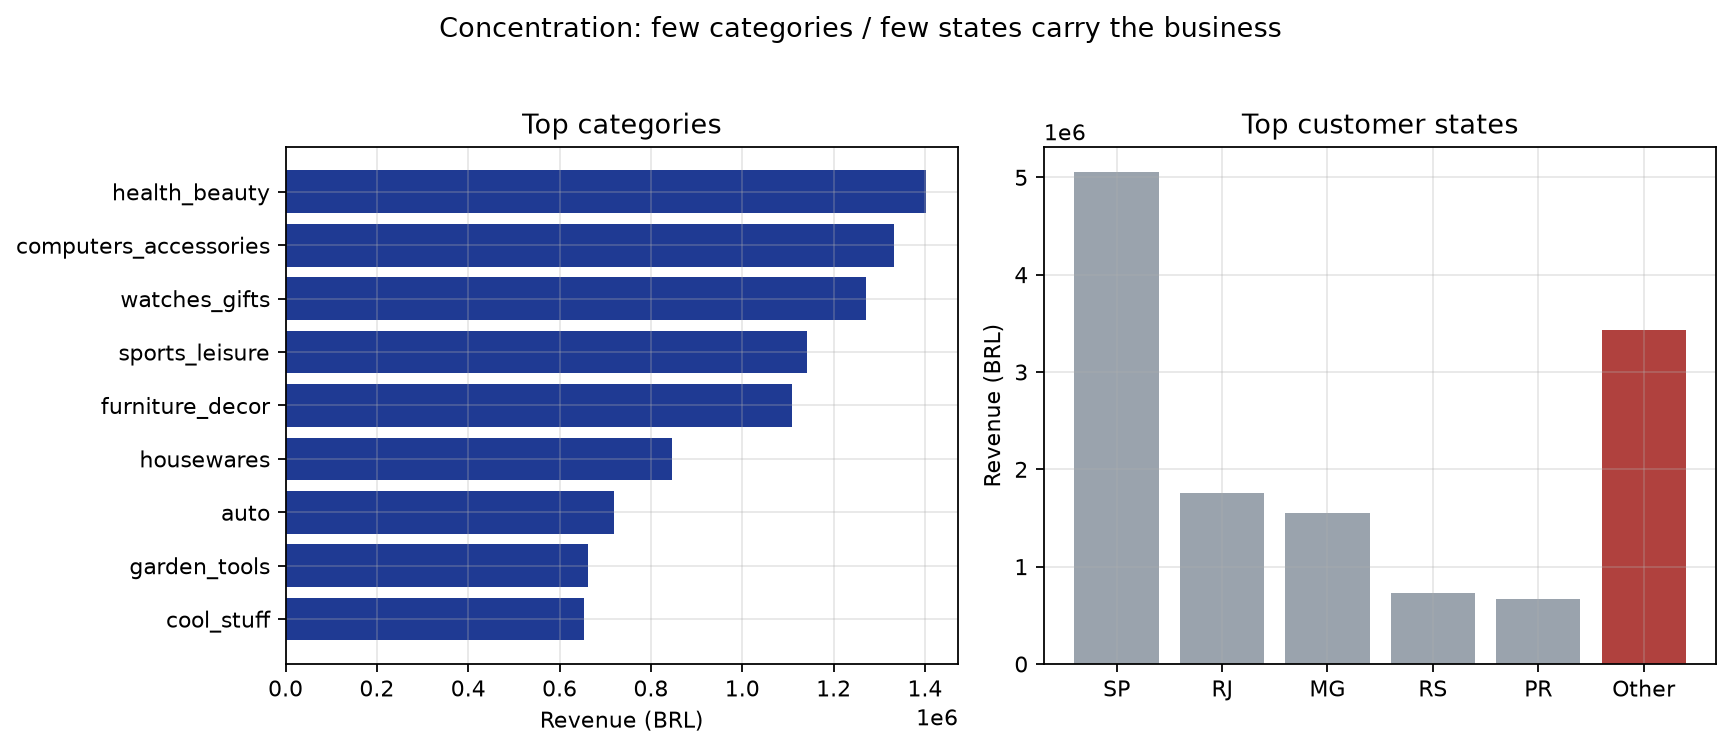
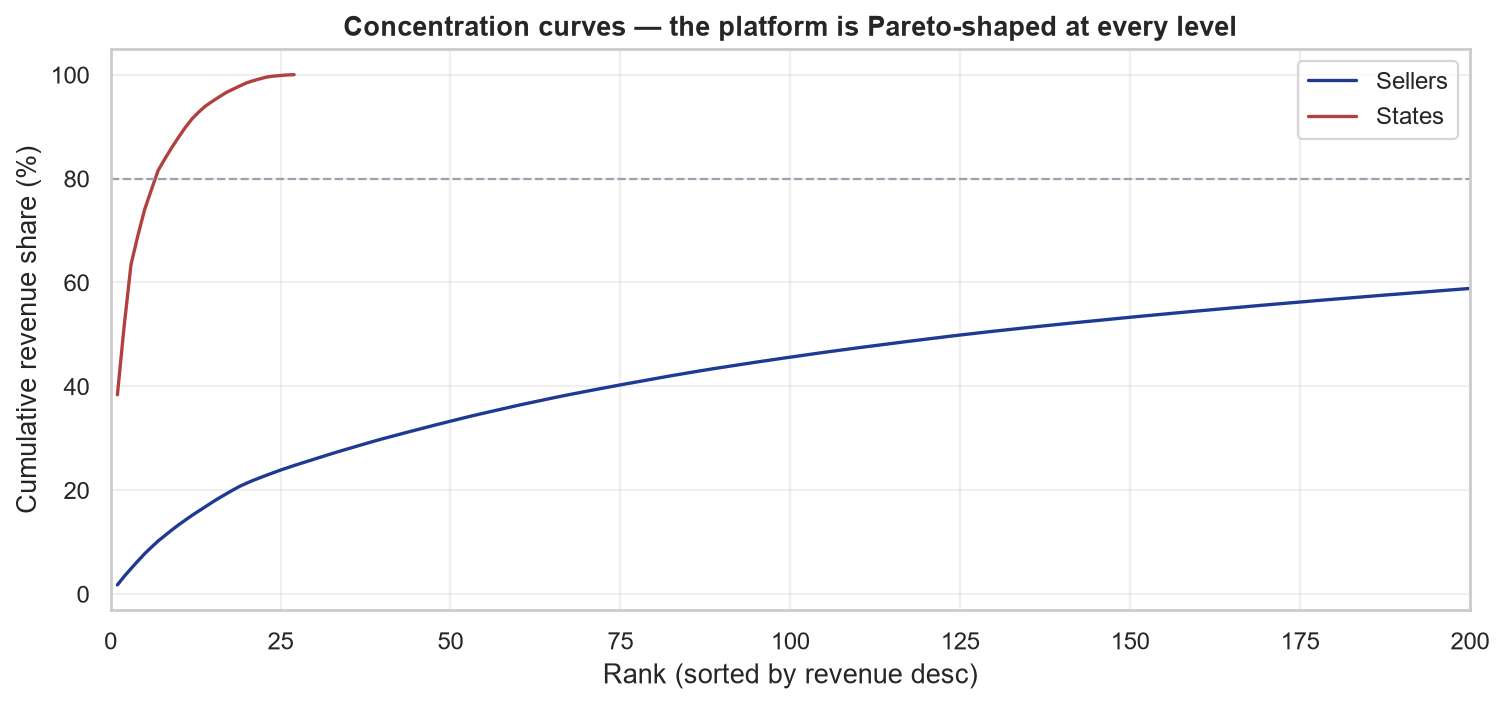
feat: sellers/repeat/freight/concentration section, save viz_05,07,08

diff --git a/04_Python/build_full_analysis_nb.py b/04_Python/build_full_analysis_nb.py
@@ -605,6 +605,92 @@ plt.tight_layout(); plt.show()
 """))
 
 # --------------------------------------------------------------------------- #
+# SECTION 10 - SELLERS, REPEAT CUSTOMERS, FREIGHT & CONCENTRATION
+# --------------------------------------------------------------------------- #
+cells.append(md(r"""
+## 10. Sellers, repeat customers, freight & concentration
+
+Seller base size and its revenue share, repeat-customer economics (the
+repeat-rate number that matters), freight burden on orders, and the
+concentration structure of the whole marketplace. **Saves `viz_05`, `viz_07`,
+`viz_08`**.
+"""))
+
+cells.append(code(r"""
+sellers = fi.groupby("seller_id").agg(
+    orders=("order_id", "size"),
+    revenue=("line_price", "sum"),
+    freight=("line_freight", "sum"),
+).sort_values("revenue", ascending=False)
+print(f"Sellers: {len(sellers):,} | Top-10 share of seller revenue: "
+      f"{sellers['revenue'].head(10).sum() / sellers['revenue'].sum():.1%}")
+print(f"Median seller revenue: R$ {sellers['revenue'].median():,.0f} "
+      f"vs mean R$ {sellers['revenue'].mean():,.0f}")
+"""))
+
+cells.append(code(r"""
+freq = m.groupby("customer_unique_id").size()
+repeat_ids = freq[freq > 1].index
+repeat_rate = (freq > 1).mean()
+crev = m.set_index("customer_unique_id")["order_revenue"]
+rep_rev_share = crev.loc[crev.index.isin(repeat_ids)].sum() / crev.sum()
+aov_repeat_mult = crev.loc[crev.index.isin(repeat_ids)].mean() / crev.loc[~crev.index.isin(repeat_ids)].mean()
+print(f"Repeat customers: {len(repeat_ids):,} ({repeat_rate:.2%} of customers)")
+print(f"Revenue share from repeat customers: {rep_rev_share:.1%}")
+print(f"AOV repeat vs one-time multiplier: {aov_repeat_mult:.2f}x")
+sagg = pd.DataFrame({
+    "cohort": ["one-time", "repeat"],
+    "customers": [(freq == 1).sum(), (freq > 1).sum()],
+    "revenue": [crev.loc[~crev.index.isin(repeat_ids)].sum(), rep_rev_share * crev.sum()]})
+display(sagg)
+"""))
+
+cells.append(code(r"""
+fig, ax = plt.subplots(figsize=(9.5, 4.5))
+share = freq.value_counts().sort_index()
+ax.bar([str(i) for i in share.index], share.values, color=dl.PALETTE["ok"])
+ax.set_xlabel("Orders per customer"); ax.set_ylabel("Customers")
+ax.set_title("Order-frequency distribution — most customers order once")
+savefig("viz_05_repeat_rate.png")
+plt.tight_layout(); plt.show()
+"""))
+
+cells.append(code(r"""
+m["freight_ratio"] = m["total_freight"] / m["order_revenue"]
+print(m["freight_ratio"].describe().to_string())
+print(f"Orders where freight > 20% of value: {(m['freight_ratio'] > 0.2).mean():.1%}")
+fig, ax = plt.subplots(figsize=(9.5, 4.5))
+fr = m["freight_ratio"].clip(upper=1)
+ax.hist(fr, bins=40, color=dl.PALETTE["info"])
+ax.set_xlabel("Freight / order value ratio"); ax.set_ylabel("Orders")
+ax.set_title("Freight burden — most orders under 15%, heavy tail above 30%")
+savefig("viz_07_freight_burden.png")
+plt.tight_layout(); plt.show()
+"""))
+
+cells.append(code(r"""
+def concentration(series, label):
+    s = series.sort_values(ascending=False).reset_index(drop=True)
+    cum = s.cumsum() / s.sum()
+    top10 = cum.iloc[9] if len(cum) >= 10 else 1.0
+    top20 = cum.iloc[19] if len(cum) >= 20 else 1.0
+    print(f"{label}: top-10 {top10:.1%} | top-20 {top20:.1%} | base n={len(s):,}")
+    return cum
+
+cum_seller = concentration(sellers["revenue"], "Seller revenue")
+cum_state = concentration(m.groupby("customer_state")["order_revenue"].sum(), "State revenue")
+fig, ax = plt.subplots(figsize=(9.5, 4.5))
+ax.plot(cum_seller.index + 1, cum_seller.values * 100, color=NAVY, label="Sellers")
+ax.plot(cum_state.index + 1, cum_state.values * 100, color=RED, label="States")
+ax.axhline(80, color=GRAY, ls="--", lw=1)
+ax.set_xlabel("Rank (sorted by revenue desc)"); ax.set_ylabel("Cumulative revenue share (%)")
+ax.set_title("Concentration curves — the platform is Pareto-shaped at every level")
+ax.legend(); ax.set_xlim(0, 200)
+savefig("viz_08_concentration.png")
+plt.tight_layout(); plt.show()
+"""))
+
+# --------------------------------------------------------------------------- #
 # ASSEMBLY - later sections append above this line
 # --------------------------------------------------------------------------- #
 def build():
